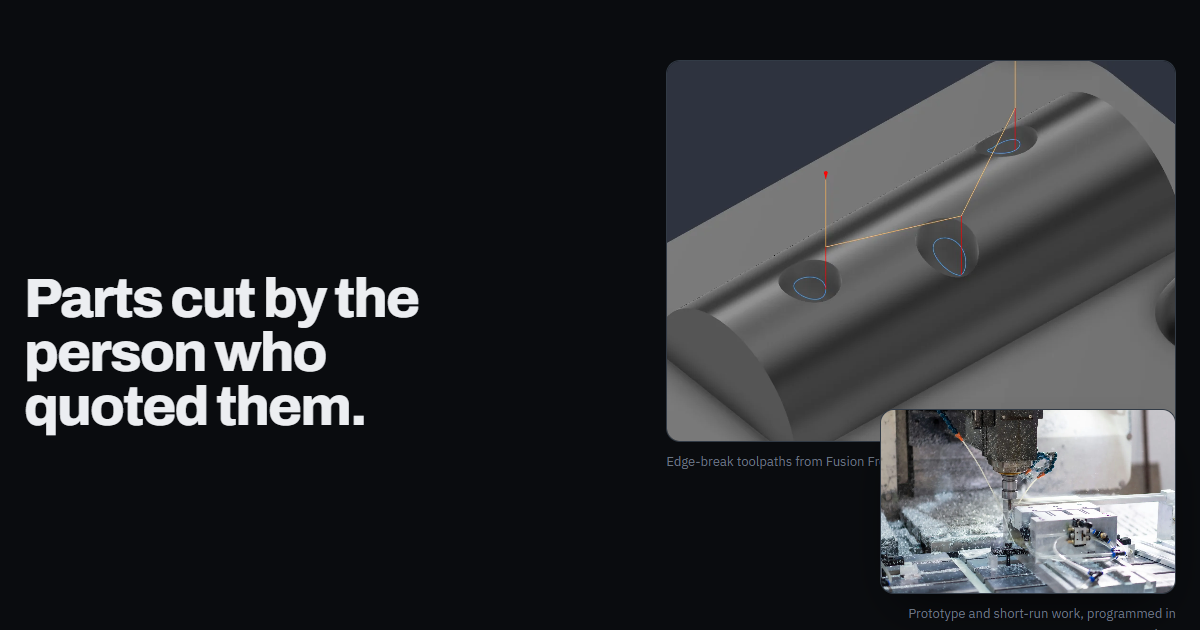
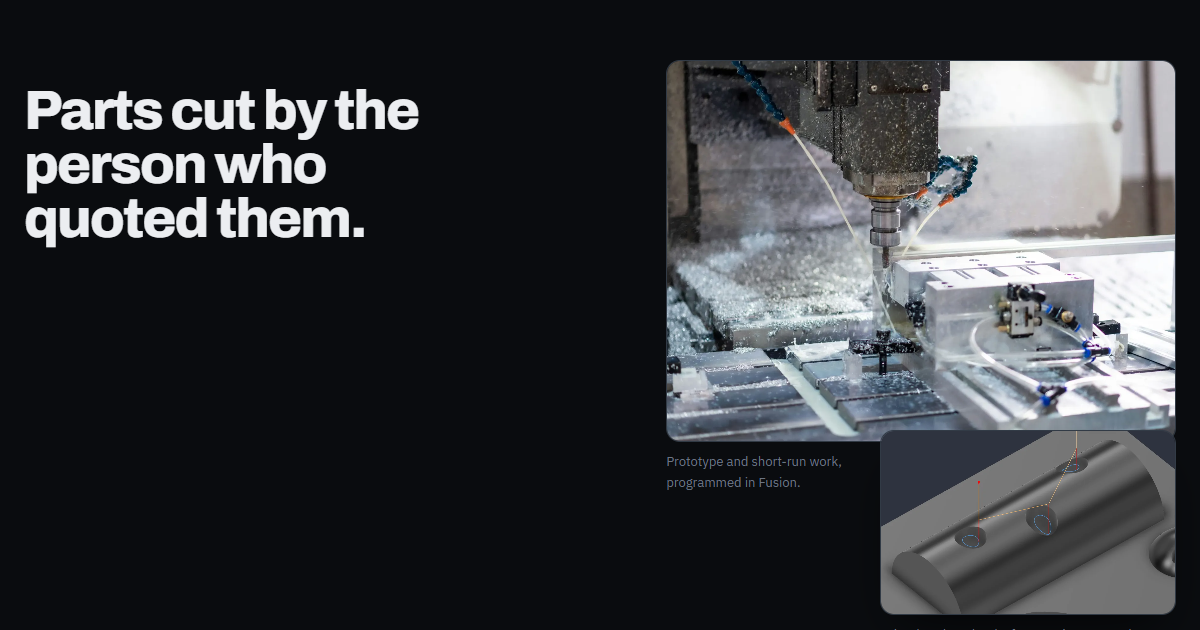
Fix hero image sizing, cache-bust assets, lead with cutting photo

diff --git a/index.html b/index.html
@@ -26,7 +26,7 @@
       href="https://fonts.googleapis.com/css2?family=Archivo:wdth,wght@62..125,500..800&family=IBM+Plex+Mono:wght@400;500&family=IBM+Plex+Sans:wght@400;500;600&display=swap"
       rel="stylesheet"
     />
-    <link rel="stylesheet" href="/assets/styles.css" />
+    <link rel="stylesheet" href="/assets/styles.css?v=3" />
     <script type="application/ld+json">
       {
         "@context": "https://schema.org",
@@ -71,7 +71,7 @@
       <!-- Hero -->
       <section class="hero">
         <div class="container hero-grid">
-          <div>
+          <div class="hero-copy">
             <h1>
               <span class="line">Parts cut by the</span>
               <span class="line">person who</span>
@@ -101,12 +101,12 @@
 
           <div class="hero-visual">
             <figure class="hero-photo-main">
-              <img src="/assets/deburr-gallery-ridge-saddle-holes.webp" alt="Deburr toolpaths tracing holes drilled into a curved ridge, generated in Autodesk Fusion" width="1200" height="800" />
-              <figcaption>Edge-break toolpaths from Fusion Free Deburr, my open-source Fusion add-in.</figcaption>
-            </figure>
-            <figure class="hero-photo-small">
               <img src="/assets/coolant.webp" alt="An end mill cutting a part under flood coolant" width="1800" height="1202" />
               <figcaption>Prototype and short-run work, programmed in Fusion.</figcaption>
+            </figure>
+            <figure class="hero-photo-small">
+              <img src="/assets/deburr-gallery-ridge-saddle-holes.webp" alt="Deburr toolpaths tracing holes drilled into a curved ridge, generated in Autodesk Fusion" width="1200" height="800" />
+              <figcaption>Edge-break toolpaths from Fusion Free Deburr, my open-source add-in.</figcaption>
             </figure>
           </div>
         </div>
@@ -591,6 +591,6 @@
     </footer>
 
     <div class="toast" role="status" aria-live="polite" data-toast></div>
-    <script src="/assets/main.js" defer></script>
+    <script src="/assets/main.js?v=3" defer></script>
   </body>
 </html>

diff --git a/assets/styles.css b/assets/styles.css
@@ -348,7 +348,11 @@ h3 {
   display: grid;
   grid-template-columns: 1.15fr 1fr;
   gap: 56px;
-  align-items: center;
+  align-items: start;
+}
+
+.hero-copy {
+  padding-top: 24px;
 }
 
 .hero h1 {
@@ -1607,6 +1611,7 @@ h3 {
 .hero-photo-main img,
 .hero-photo-small img {
   width: 100%;
+  height: auto;
   object-fit: cover;
   border: 1px solid var(--line-2);
   border-radius: var(--radius);
@@ -1654,6 +1659,7 @@ h3 {
 
 .gallery img {
   width: 100%;
+  height: auto;
   aspect-ratio: 16 / 10;
   object-fit: cover;
   border: 1px solid var(--line);
@@ -1668,6 +1674,7 @@ h3 {
 
 .about-img {
   width: 100%;
+  height: auto;
   aspect-ratio: 16 / 10;
   object-fit: cover;
   border: 1px solid var(--line);
@@ -1736,6 +1743,14 @@ h3 {
 
   .hero-grid {
     gap: 48px;
+  }
+
+  .hero-copy {
+    padding-top: 0;
+  }
+
+  .hero-visual {
+    max-width: 620px;
   }
 
 

diff --git a/resources.html b/resources.html
@@ -20,7 +20,7 @@
       href="https://fonts.googleapis.com/css2?family=Archivo:wdth,wght@62..125,500..800&family=IBM+Plex+Mono:wght@400;500&family=IBM+Plex+Sans:wght@400;500;600&display=swap"
       rel="stylesheet"
     />
-    <link rel="stylesheet" href="/assets/styles.css" />
+    <link rel="stylesheet" href="/assets/styles.css?v=3" />
   </head>
   <body>
     <a class="skip-link" href="#main">Skip to content</a>
@@ -170,6 +170,6 @@
     </footer>
 
     <div class="toast" role="status" aria-live="polite" data-toast></div>
-    <script src="/assets/main.js" defer></script>
+    <script src="/assets/main.js?v=3" defer></script>
   </body>
 </html>
